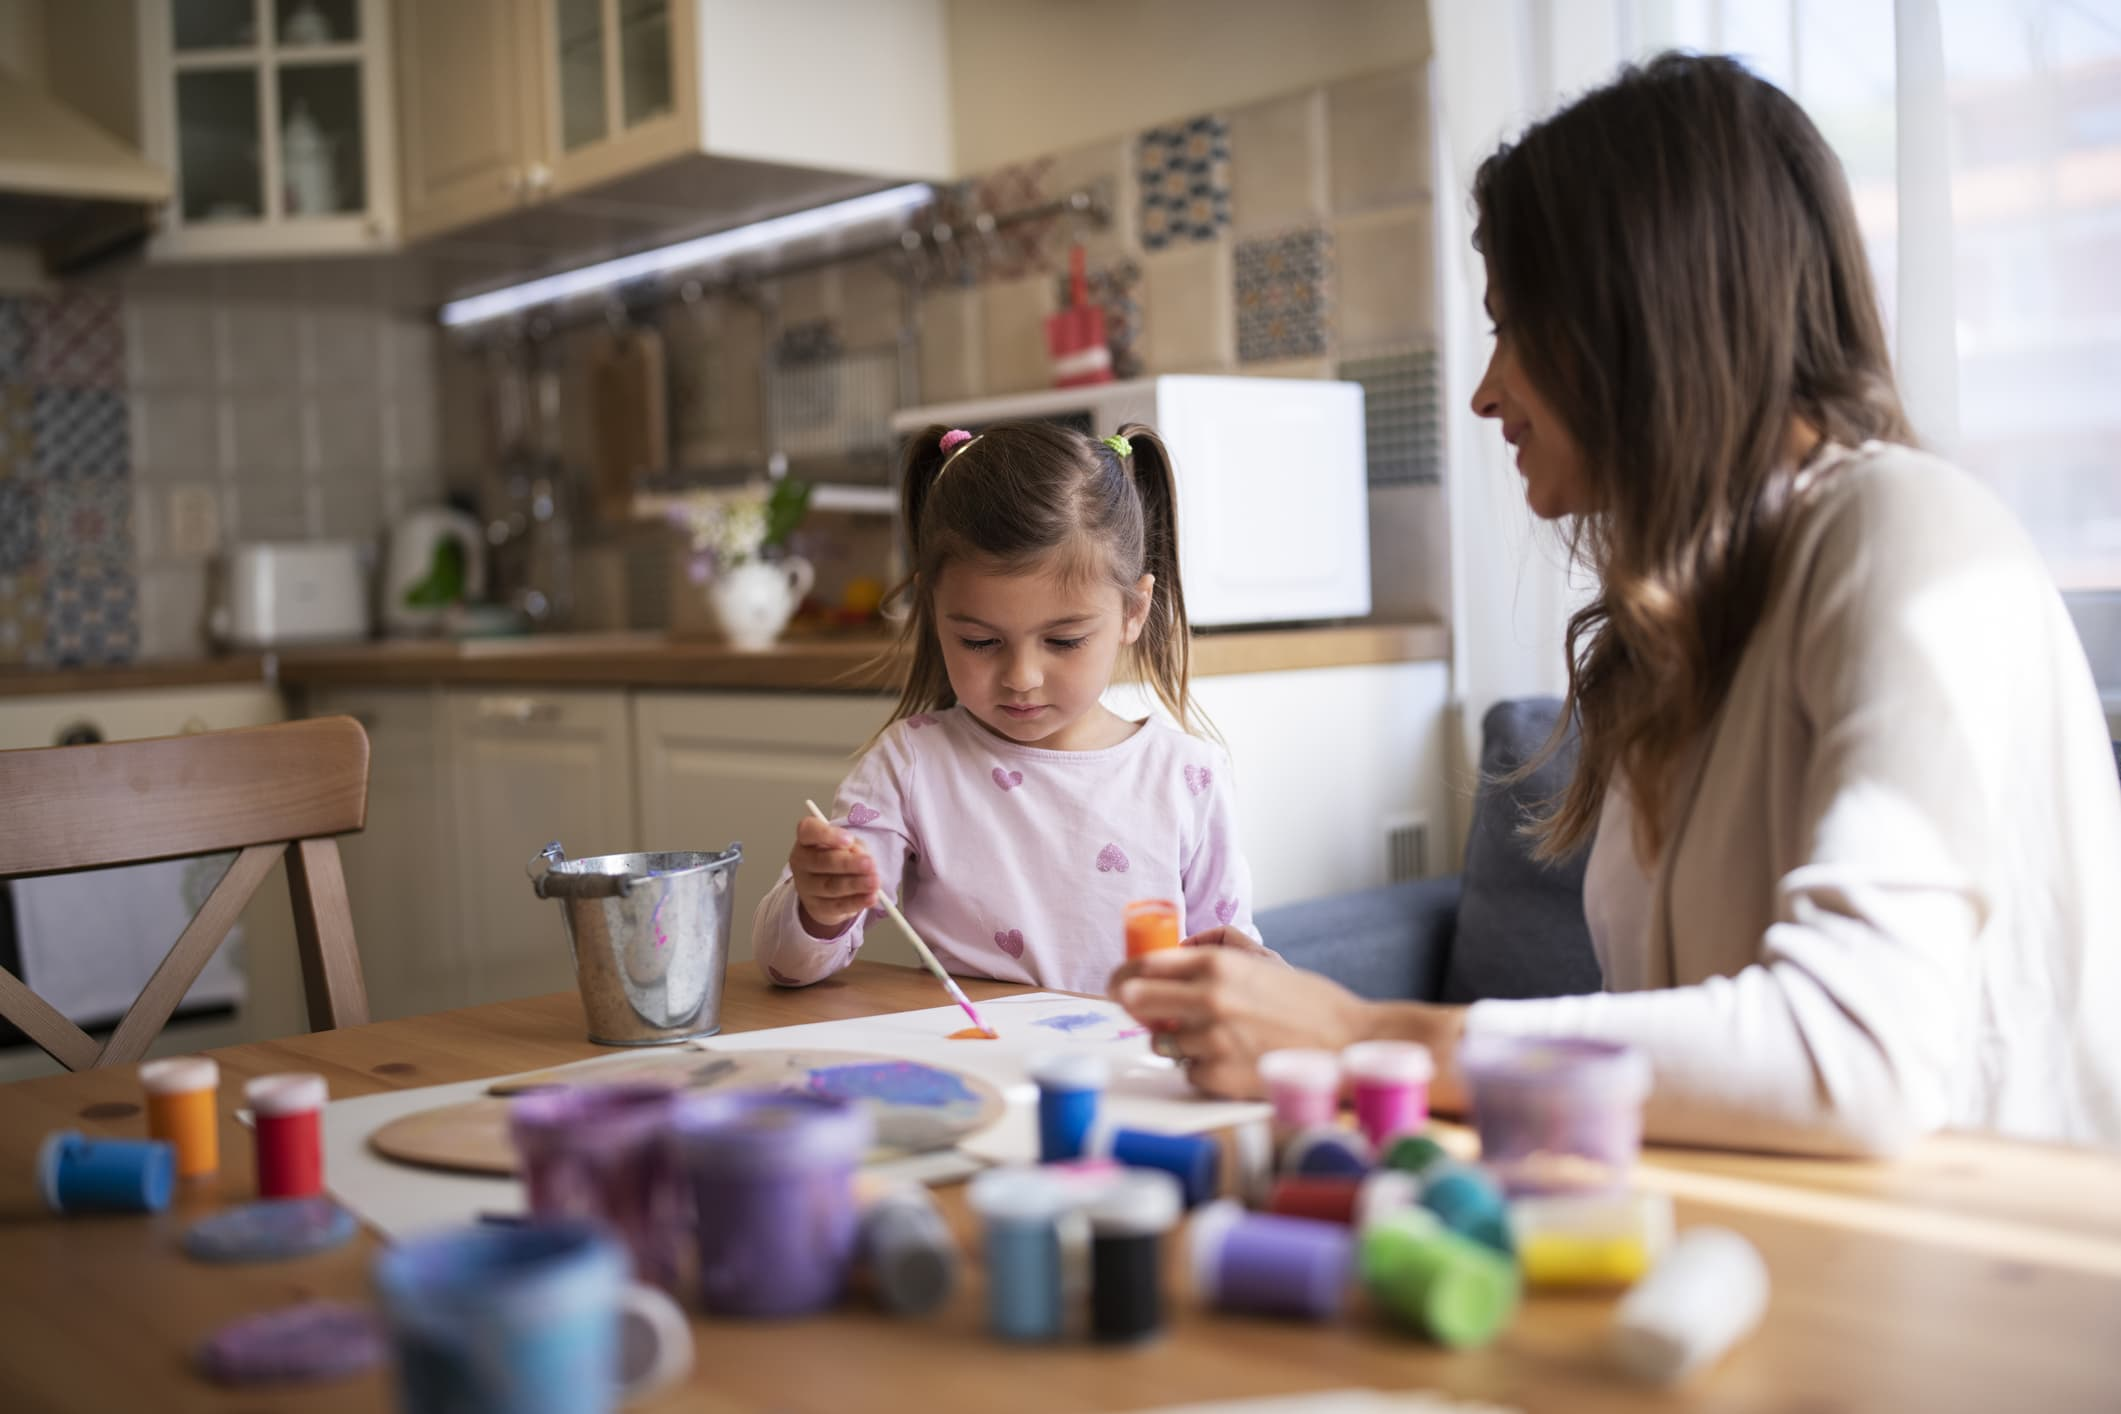
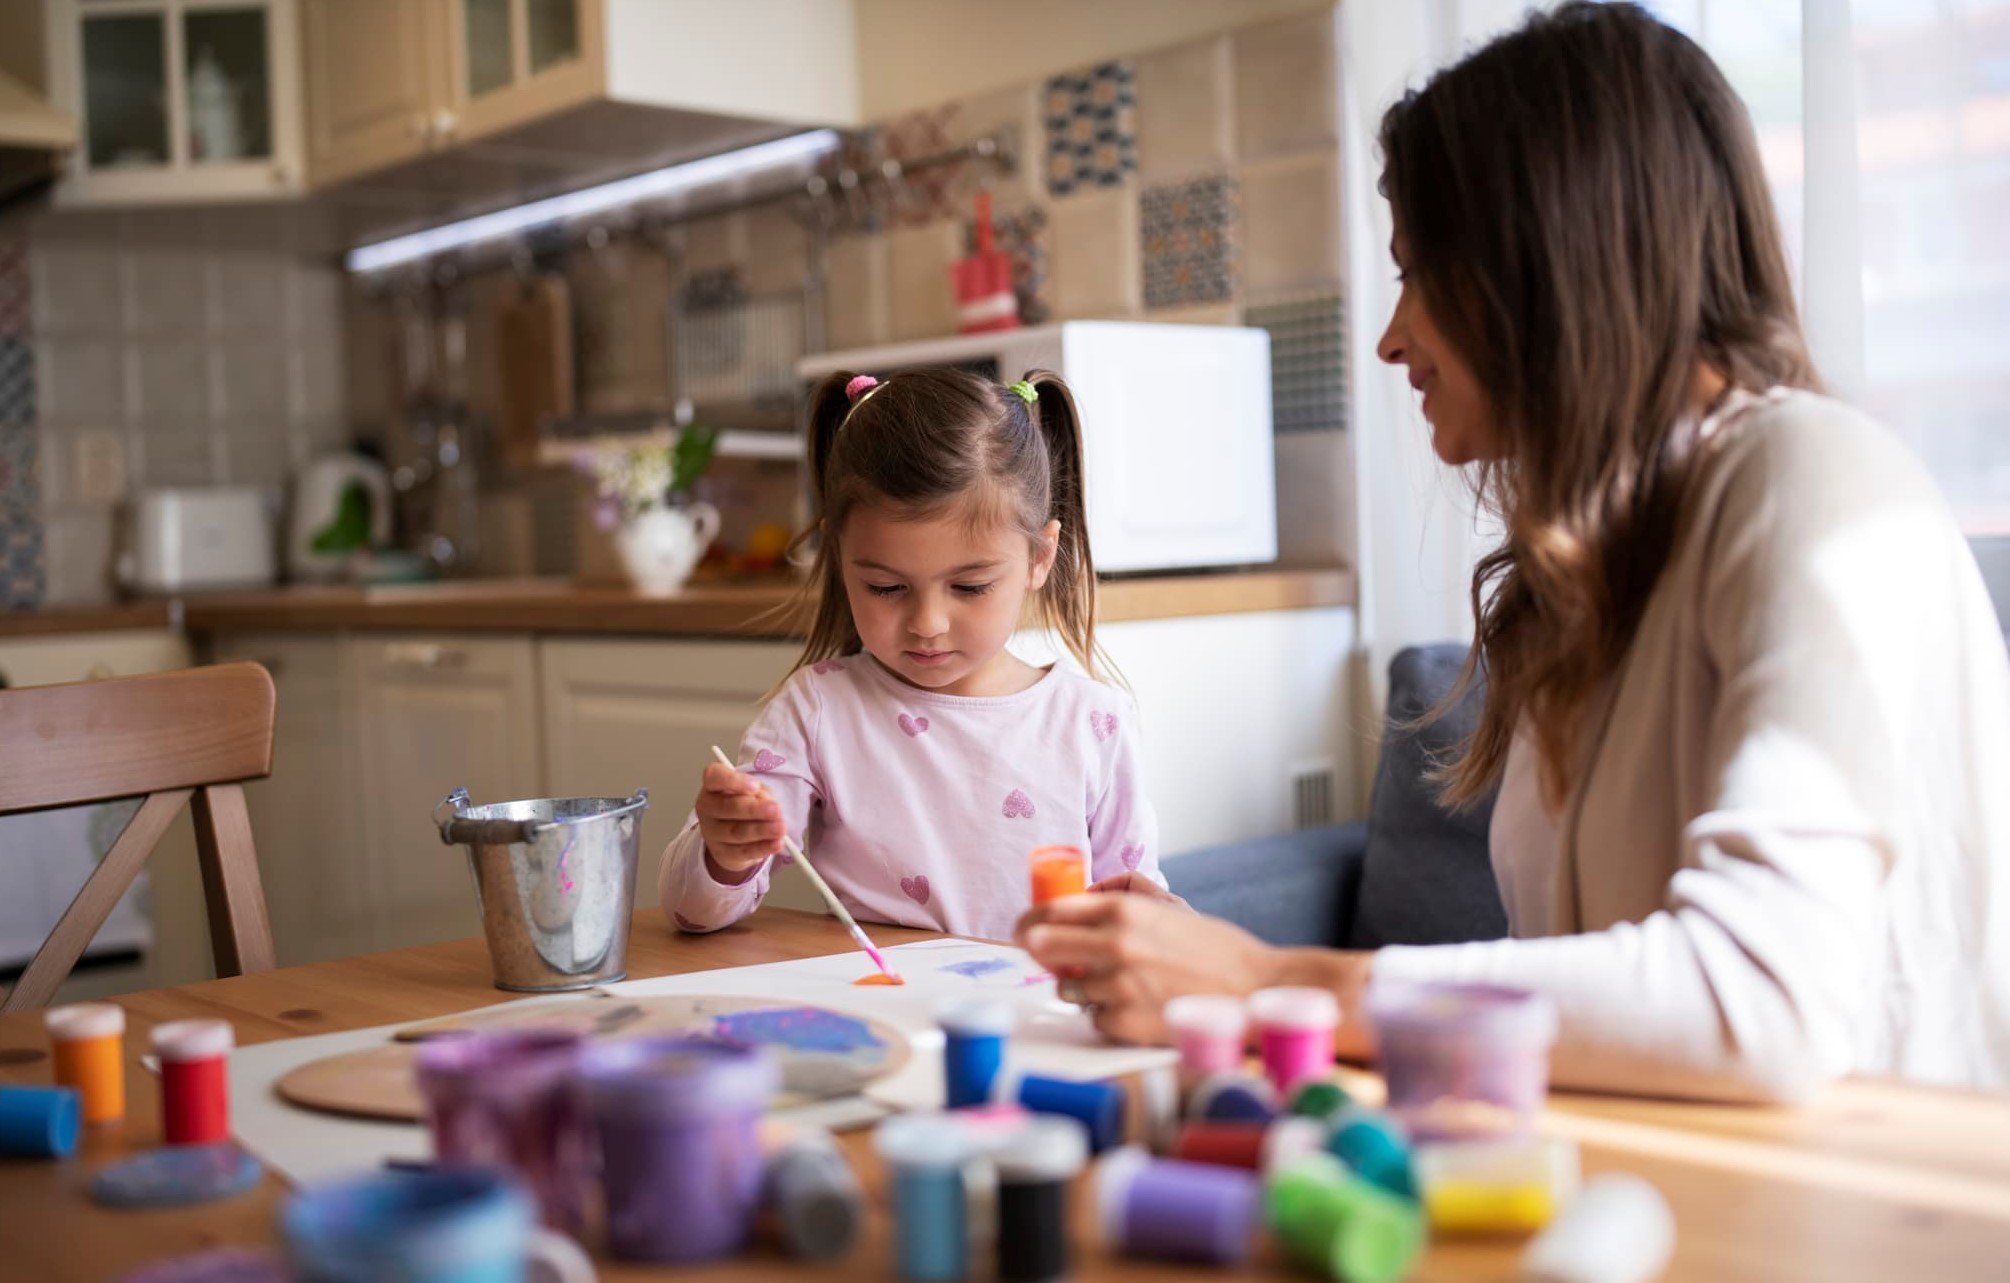
hover colour changed

diff --git a/index.html b/index.html
@@ -121,7 +121,7 @@
                         <div class="portfolio-item">
                             <a class="portfolio-link" data-bs-toggle="modal" href="#portfolioModal3">
                                 
-                                <img class="img-fluid" src="assets/img/portfolio/childcare.jpeg" alt="..." />
+                                <img class="img-fluid" src="assets/img/portfolio/childcare-1.jpeg" alt="..." />
                             </a>
                             <div class="portfolio-caption">
                                 <div class="portfolio-caption-heading">Child Care</div>
